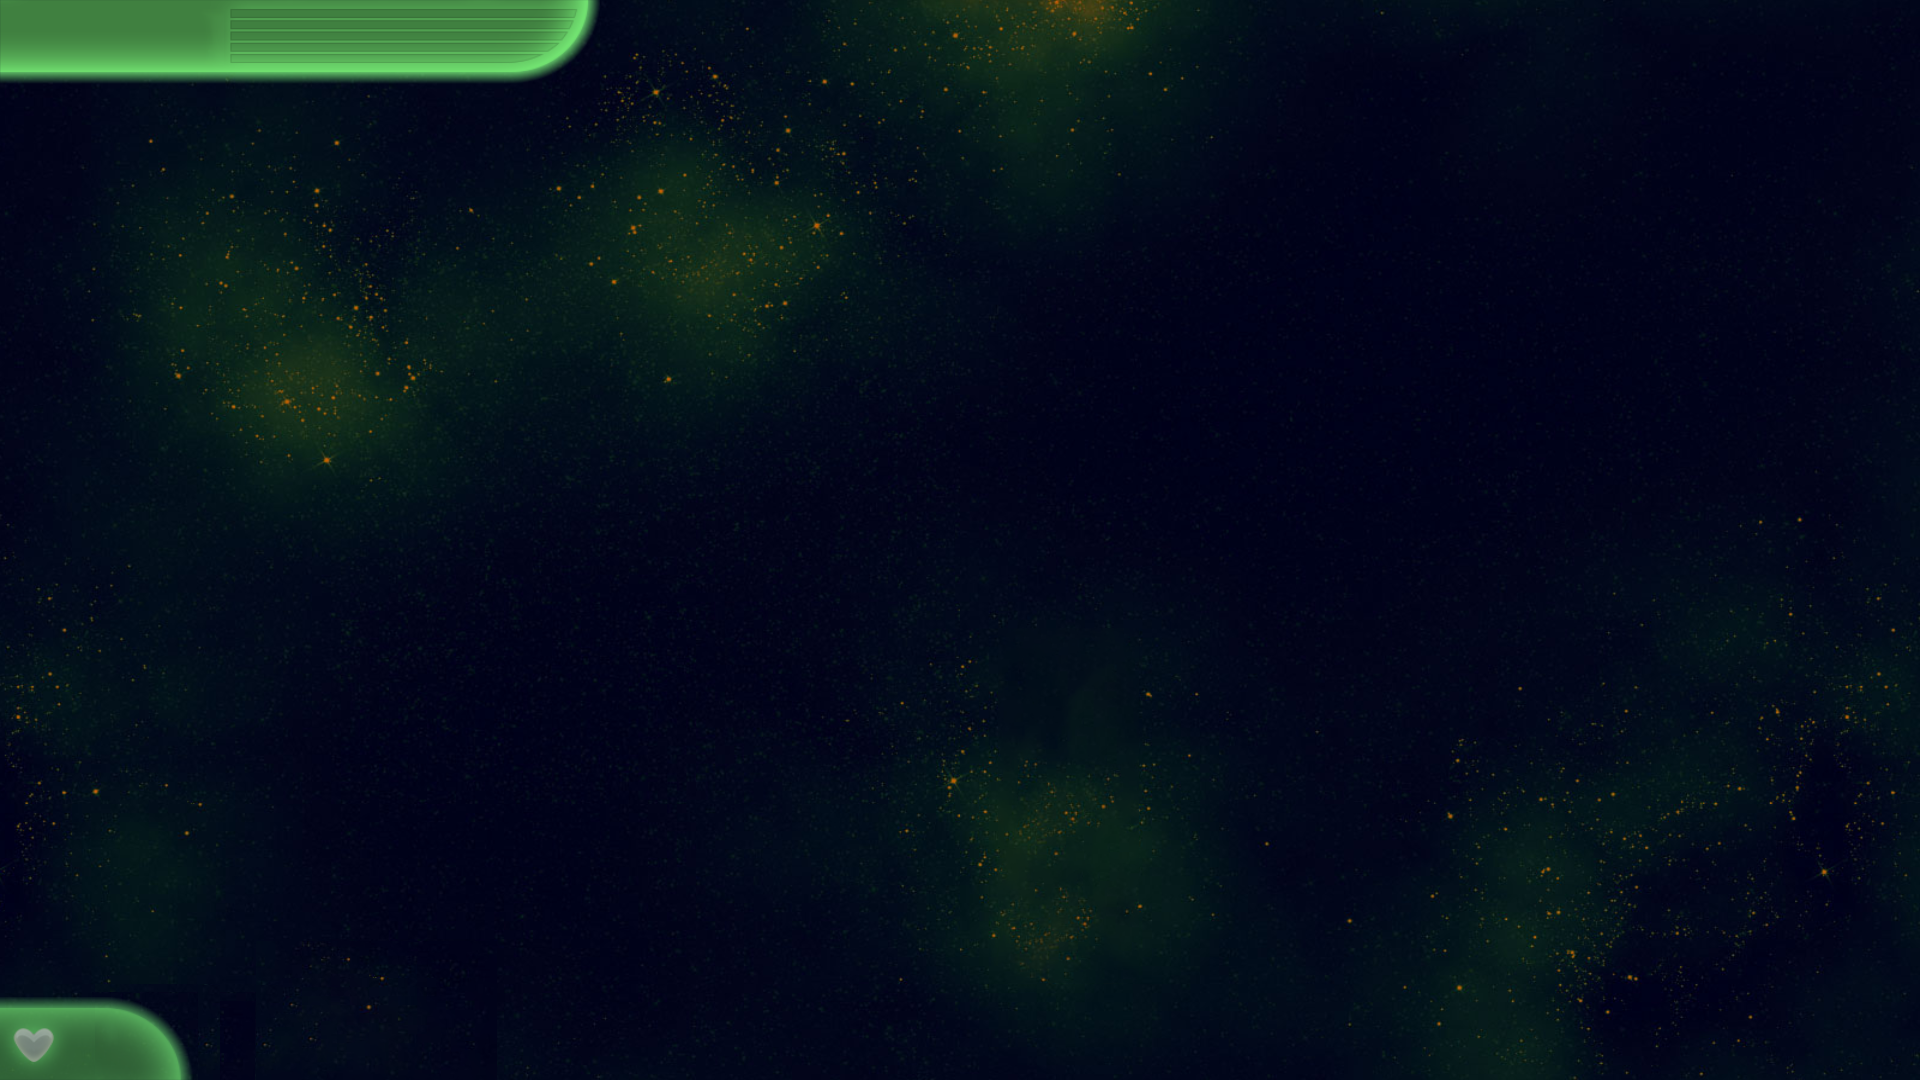
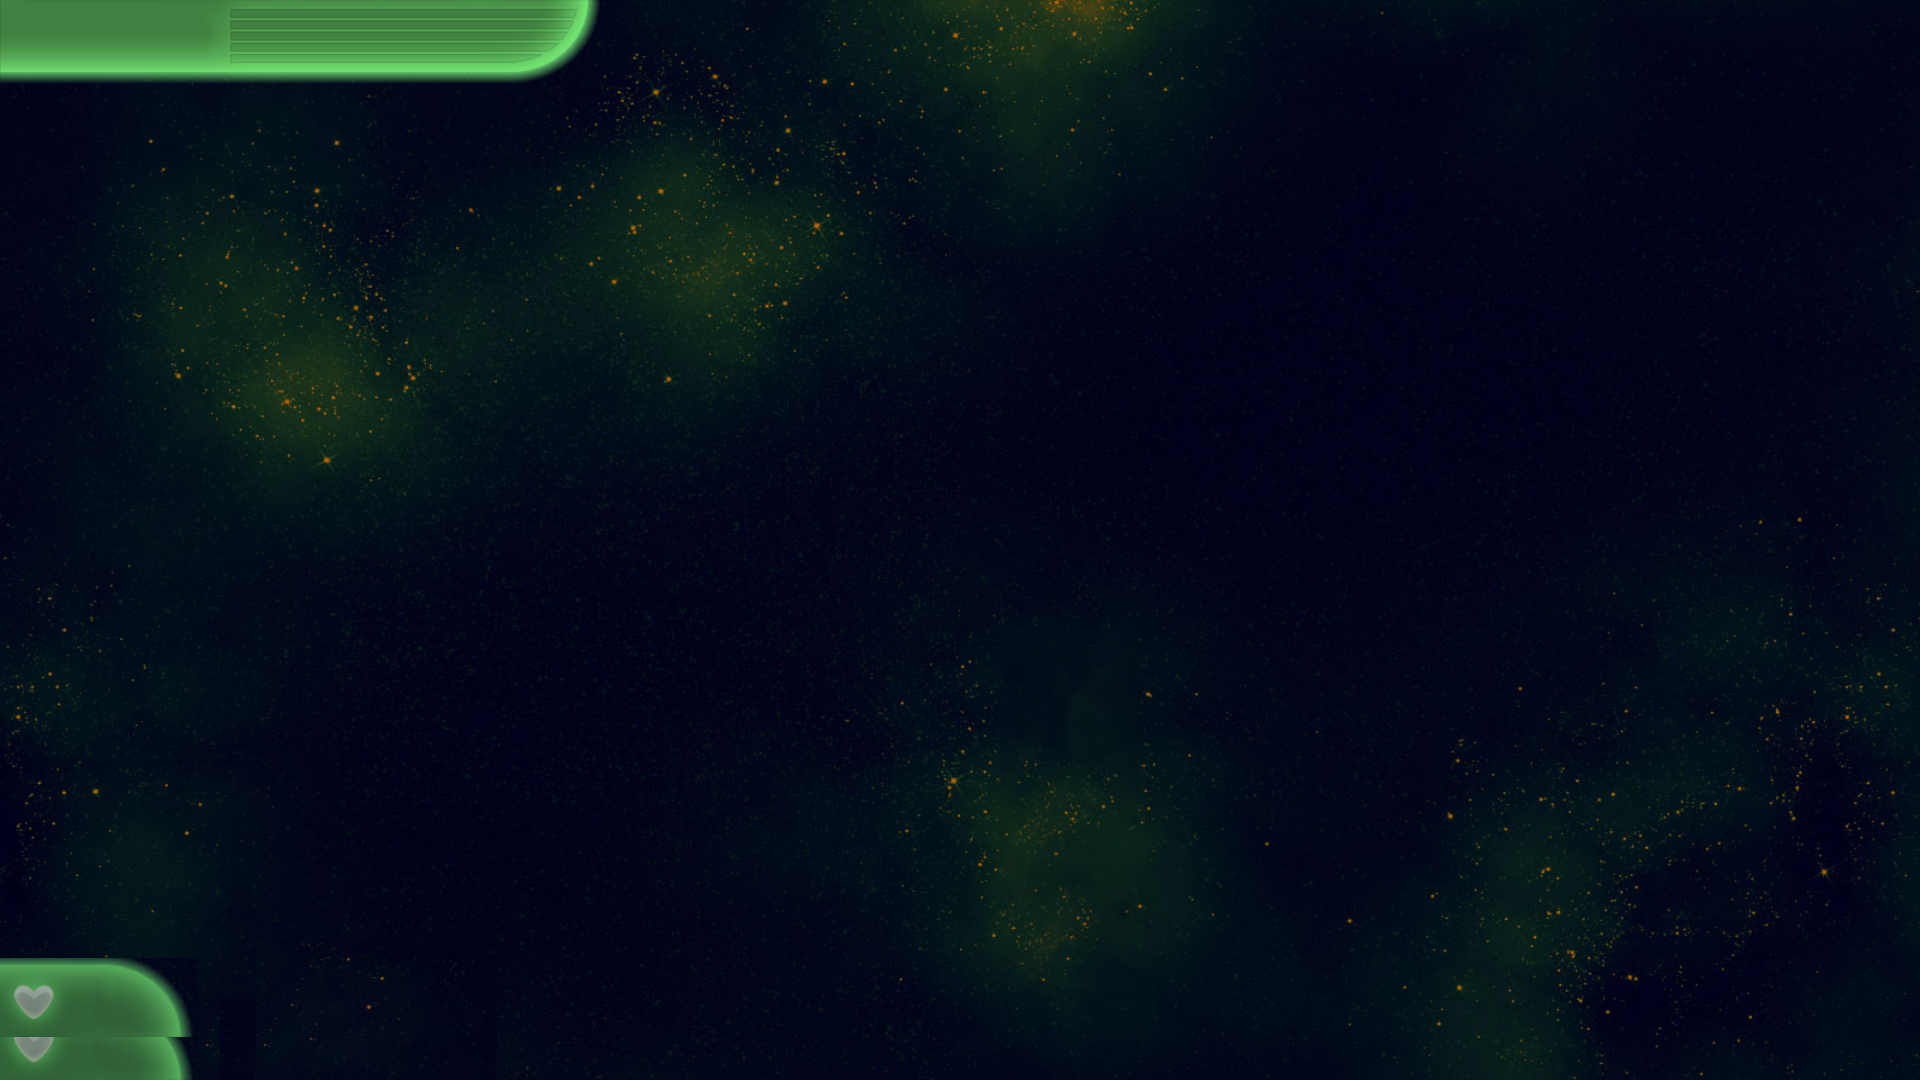
changed main background scoreboard & life borad modified

Changed region(s): [[0.0, 0.8861, 0.0938, 0.9778]]

diff --git a/Game.cpp b/Game.cpp
@@ -4,6 +4,7 @@
 
 Game::Game(int w , int h , int lev) : gTime(0), width(w),height(h), chickenRow(4), score(0) ,level(lev) ,isCollided(false)
 {
+    setWindowFlags(Qt::Window|Qt::FramelessWindowHint);
     setcursor();
     setTimer();
     setMouseTracking(true);
@@ -17,6 +18,7 @@ Game::Game(int w , int h , int lev) : gTime(0), width(w),height(h), chickenRow(4
 Game::~Game()
 {
     delete ship;
+
 }
 
 
@@ -131,8 +133,8 @@ void Game::checkLevel()
 }
 
 void Game::updateStats(){
-      lifeboard->setPlainText(QString("LIFE: ") + QString::number((ship->getLife())));
-      scoreboard->setPlainText(QString("SCORE: ") + QString::number(score));
+      lifeboard->setPlainText( QString::number((ship->getLife())));
+      scoreboard->setPlainText(QString::number(score));
 }
 
 void Game::increasePoint()
@@ -153,19 +155,19 @@ void Game::addShip()
 void Game::addLifeBoard()
 {
     lifeboard = new QGraphicsTextItem;
-    lifeboard->setPlainText(QString("LIFE: ") + QString::number((ship->getLife())));
-    lifeboard->setDefaultTextColor(Qt::red);
-    lifeboard->setFont(QFont("times",16));
-    lifeboard->setPos(0,680);
+    lifeboard->setPlainText( QString::number((ship->getLife())));
+    lifeboard->setDefaultTextColor(Qt::white);
+    lifeboard->setFont(QFont("Bw Stretch Medium",30));
+    lifeboard->setPos(90,970);
 }
 
 void Game::addScoreBoard()
 {
     scoreboard = new QGraphicsTextItem;
-    scoreboard->setPlainText(QString("SCORE: ") + QString::number(score));
-    scoreboard->setDefaultTextColor(Qt::blue);
-    scoreboard->setFont(QFont("times",16));
-    scoreboard->setPos(1150,680);
+    scoreboard->setPlainText(QString::number(score));
+    scoreboard->setDefaultTextColor(Qt::white);
+    scoreboard->setFont(QFont("Bw Stretch Medium",36));
+    scoreboard->setPos(130,5);
 }
 
 void Game::addChicken()
